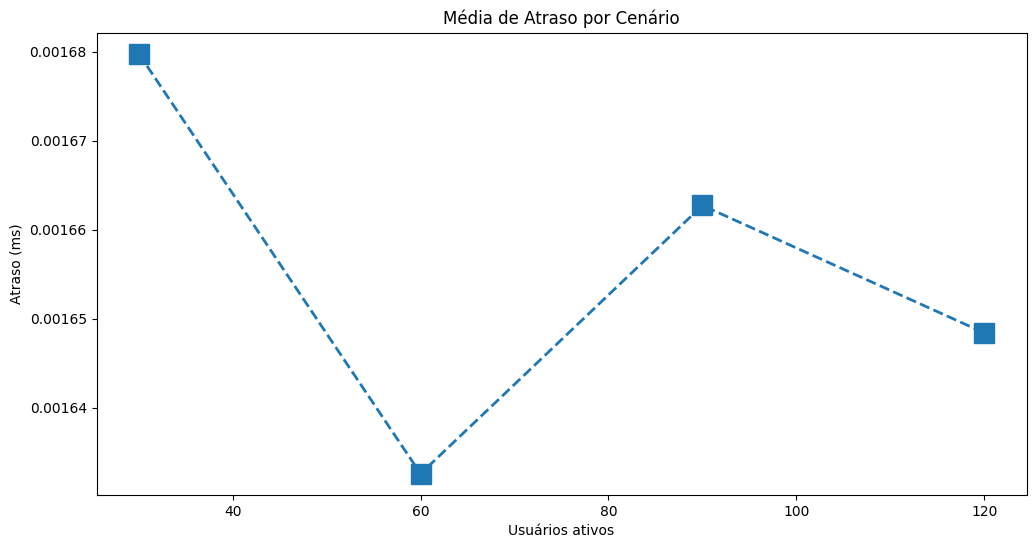
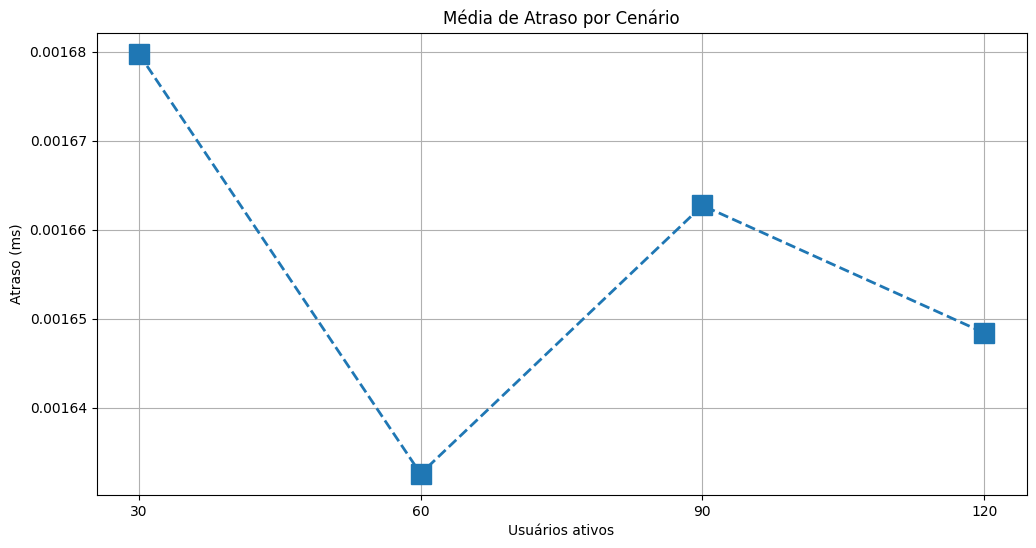
Final Corrections to Additions

Changed region(s): [[0.2162, 0.9307, 0.2471, 0.9617]]

diff --git a/src/util/PlotMaker.py b/src/util/PlotMaker.py
@@ -16,13 +16,15 @@ class PlotMaker:
         plt.ylabel(y_label)
         plt.title(title)
         plt.ticklabel_format(style=ticklabel_format)
+        plt.grid()
         locale.setlocale(locale.LC_NUMERIC, "pt_BR")
 
-    def plot(self, x, y, legend=None, ls='dashed', col='blue', ms=None):
+    def plot(self, x, y, legend=None, ls='dashed', ms=None):
         if any(isinstance(item, list) for item in (x[0], y[0])):
             for index, (i, j) in enumerate(zip(x, y)):
                 plt.plot(i, j, linestyle=self.line_styles[index], marker=ms, linewidth=2)
         else:
+            plt.xticks(x)
             plt.plot(x, y, linestyle=ls, marker=ms, linewidth=2, markersize=15)
 
         if legend:
